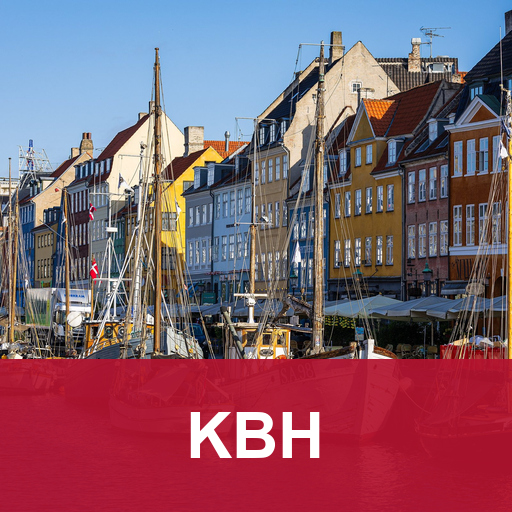
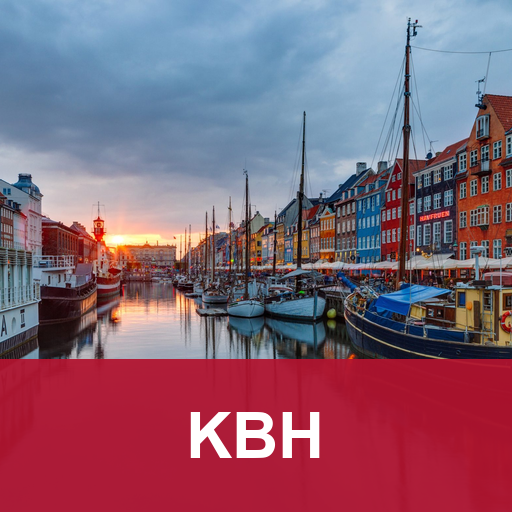
Portada: Nyhavn al atardecer (elegida por Adil); og:image ?2, sw v2

diff --git a/index.html b/index.html
@@ -17,8 +17,8 @@
 <meta property="og:url" content="https://iaadileli.github.io/copenhague/">
 <meta property="og:title" content="Copenhague, del 4 al 8 de diciembre">
 <meta property="og:description" content="Tivoli de Navidad, smørrebrød, kanelsnegle, tiendas raras y dónde dormir. Para Alicia y Luis.">
-<meta property="og:image" content="https://iaadileli.github.io/copenhague/img/portada.jpg?1">
-<meta property="og:image:secure_url" content="https://iaadileli.github.io/copenhague/img/portada.jpg?1">
+<meta property="og:image" content="https://iaadileli.github.io/copenhague/img/portada.jpg?2">
+<meta property="og:image:secure_url" content="https://iaadileli.github.io/copenhague/img/portada.jpg?2">
 <meta property="og:image:type" content="image/jpeg">
 <meta property="og:image:width" content="1200">
 <meta property="og:image:height" content="630">
@@ -26,7 +26,7 @@
 <meta name="twitter:card" content="summary_large_image">
 <meta name="twitter:title" content="Copenhague, del 4 al 8 de diciembre">
 <meta name="twitter:description" content="Navidad, smørrebrød, panaderías, tiendas raras y hoteles.">
-<meta name="twitter:image" content="https://iaadileli.github.io/copenhague/img/portada.jpg?1">
+<meta name="twitter:image" content="https://iaadileli.github.io/copenhague/img/portada.jpg?2">
 <style>
   :root{
     --crema:#fbf8f2; --tinta:#26282b; --tinta2:#5f6b70;
@@ -874,11 +874,10 @@
   /* alguna foto viene pequeña de origen: a todo lo ancho se ve blanda */
   .banner.pequeno{max-width:660px;margin-left:auto;margin-right:auto}
 
-  /* el hero: la fuente Bartholdi a pleno sol en la place des Terreaux (28-sep-2026; Adil
-     quería luz: antes Saint-Georges de noche, y antes un mar de tejados). La foto es clara,
-     así que arriba casi no se toca y abajo el degradado sube para que se lea el texto */
+  /* el hero: Nyhavn al atardecer, la eligió Adil (20-oct-2026; antes Nyhavn a pleno sol).
+     El cielo es claro, así que arriba casi no se toca y abajo el degradado sube para que se lea el texto */
   header.hero{background:linear-gradient(180deg,rgba(10,20,35,.08) 0%,rgba(10,20,35,.42) 40%,rgba(10,20,35,.82) 100%),
-    url('img/portada-hero.jpg') center 40%/cover no-repeat}
+    url('img/portada-hero.jpg') 33% 40%/cover no-repeat}  /* 33%: en móvil, que se vea el sol al fondo del canal */
   /* con fondo claro, la fecha y el subtítulo necesitan sombra igual que el título */
   .hero .fechas,.hero .sub{text-shadow:0 1px 10px rgba(0,0,0,.75),0 0 2px rgba(0,0,0,.6)}
 
@@ -2843,7 +2842,7 @@
   <details class="creditos">
     <summary>Créditos de las fotos</summary>
     <ul id="creditos-fotos">
-    <li><a href="https://commons.wikimedia.org/wiki/File%3A2026-07-27-Nyhavn-060688.jpg" target="_blank" rel="noopener">2026-07-27-Nyhavn-060688.jpg</a> · CC BY-SA 4.0 · Superbass</li>
+    <li><a href="https://commons.wikimedia.org/wiki/File%3A2018_-_Nyhavn_on_sunset.jpg" target="_blank" rel="noopener">2018 - Nyhavn on sunset.jpg</a> · CC BY-SA 4.0 · Moahim</li>
     <li><a href="https://commons.wikimedia.org/wiki/File%3ACopenhagen_2016-12-10_%2831769651645%29.jpg" target="_blank" rel="noopener">Copenhagen 2016-12-10 (31769651645).jpg</a> · CC BY-SA 2.0 · Guillaume Baviere from Copenhagen, Denmark</li>
     <li><a href="https://commons.wikimedia.org/wiki/File%3A20191213_Hotel_d%27Angleterre_juldekoration_Kongens_Nytorv_Kopenhamn_0162_%2849215393357%29.jpg" target="_blank" rel="noopener">20191213 Hotel d'Angleterre juldekoration Kongens Nytorv Kopenhamn 0162 (49215393357).jpg</a> · CC BY 2.0 · Johan Wessman / News Oresund</li>
     <li><a href="https://commons.wikimedia.org/wiki/File%3ACopenhaga.jpg" target="_blank" rel="noopener">Copenhaga.jpg</a> · CC BY-SA 4.0 · MagdaBarascu</li>

diff --git a/generador/plantilla/head-nuevo.html b/generador/plantilla/head-nuevo.html
@@ -17,8 +17,8 @@
 <meta property="og:url" content="https://iaadileli.github.io/copenhague/">
 <meta property="og:title" content="Copenhague, del 4 al 8 de diciembre">
 <meta property="og:description" content="Tivoli de Navidad, smørrebrød, kanelsnegle, tiendas raras y dónde dormir. Para Alicia y Luis.">
-<meta property="og:image" content="https://iaadileli.github.io/copenhague/img/portada.jpg?1">
-<meta property="og:image:secure_url" content="https://iaadileli.github.io/copenhague/img/portada.jpg?1">
+<meta property="og:image" content="https://iaadileli.github.io/copenhague/img/portada.jpg?2">
+<meta property="og:image:secure_url" content="https://iaadileli.github.io/copenhague/img/portada.jpg?2">
 <meta property="og:image:type" content="image/jpeg">
 <meta property="og:image:width" content="1200">
 <meta property="og:image:height" content="630">
@@ -26,4 +26,4 @@
 <meta name="twitter:card" content="summary_large_image">
 <meta name="twitter:title" content="Copenhague, del 4 al 8 de diciembre">
 <meta name="twitter:description" content="Navidad, smørrebrød, panaderías, tiendas raras y hoteles.">
-<meta name="twitter:image" content="https://iaadileli.github.io/copenhague/img/portada.jpg?1">
+<meta name="twitter:image" content="https://iaadileli.github.io/copenhague/img/portada.jpg?2">

diff --git a/generador/plantilla/css-cph.html b/generador/plantilla/css-cph.html
@@ -75,11 +75,10 @@
   /* alguna foto viene pequeña de origen: a todo lo ancho se ve blanda */
   .banner.pequeno{max-width:660px;margin-left:auto;margin-right:auto}
 
-  /* el hero: la fuente Bartholdi a pleno sol en la place des Terreaux (28-sep-2026; Adil
-     quería luz: antes Saint-Georges de noche, y antes un mar de tejados). La foto es clara,
-     así que arriba casi no se toca y abajo el degradado sube para que se lea el texto */
+  /* el hero: Nyhavn al atardecer, la eligió Adil (20-oct-2026; antes Nyhavn a pleno sol).
+     El cielo es claro, así que arriba casi no se toca y abajo el degradado sube para que se lea el texto */
   header.hero{background:linear-gradient(180deg,rgba(10,20,35,.08) 0%,rgba(10,20,35,.42) 40%,rgba(10,20,35,.82) 100%),
-    url('img/portada-hero.jpg') center 40%/cover no-repeat}
+    url('img/portada-hero.jpg') 33% 40%/cover no-repeat}  /* 33%: en móvil, que se vea el sol al fondo del canal */
   /* con fondo claro, la fecha y el subtítulo necesitan sombra igual que el título */
   .hero .fechas,.hero .sub{text-shadow:0 1px 10px rgba(0,0,0,.75),0 0 2px rgba(0,0,0,.6)}
 

diff --git a/sw.js b/sw.js
@@ -1,4 +1,4 @@
-const CACHE = 'cph2026-v1';
+const CACHE = 'cph2026-v2';
 // la lista de ficheros la reescribe generador/recursos-sw.py con lo que hay en img/
 const RECURSOS = [
   './',

diff --git a/generador/elegir.py b/generador/elegir.py
@@ -12,7 +12,9 @@ UA = 'guia-viaje-copenhague/1.0 (uso personal)'
 # destino -> (fichero de candidatos, clave, índice elegido, ancho que se pide)
 ELEGIDAS = {
  # oct-2026, tras mirar las hojas de contacto de fotos1.json (fotos-candidatas.py)
- 'portada-hero': ('fotos1.json', 'nyhavn',         6, 2400),  # Nyhavn a pleno sol: Adil quiere luz
+ # 20-oct-2026: Adil eligió él mismo Nyhavn al atardecer (no estaba entre las candidatas:
+ # va por título directo; antes, Nyhavn a pleno sol = fotos1 nyhavn 6)
+ 'portada-hero': ('File:2018 - Nyhavn on sunset.jpg', None, None, 2400),
  'tivoli':       ('fotos1.json', 'tivoli',         8, 1600),  # el árbol grande y el arco, de noche
  'indre':        ('fotos1.json', 'navidad',        0, 1600),  # d'Angleterre con su decoración, Kongens Nytorv
  'nyhavn':       ('fotos1.json', 'nyhavn',        13, 1600),
@@ -80,7 +82,8 @@ RUTA_CRED = 'generador/datos-fuente/creditos.json'
 creditos = json.load(open(RUTA_CRED)) if SOLO and os.path.exists(RUTA_CRED) else {}
 for destino, (fich, clave, idx, ancho) in ELEGIDAS.items():
     if SOLO and destino not in SOLO: continue
-    c = json.load(open('generador/datos-fuente/' + fich))[clave][idx]
+    c = ({'t': fich} if fich.startswith('File:')
+         else json.load(open('generador/datos-fuente/' + fich))[clave][idx])
     url, ancho_original, lic, autor = thumb(c['t'], ancho)
     ruta = 'img/%s.jpg' % destino
     baja(url, ruta)
